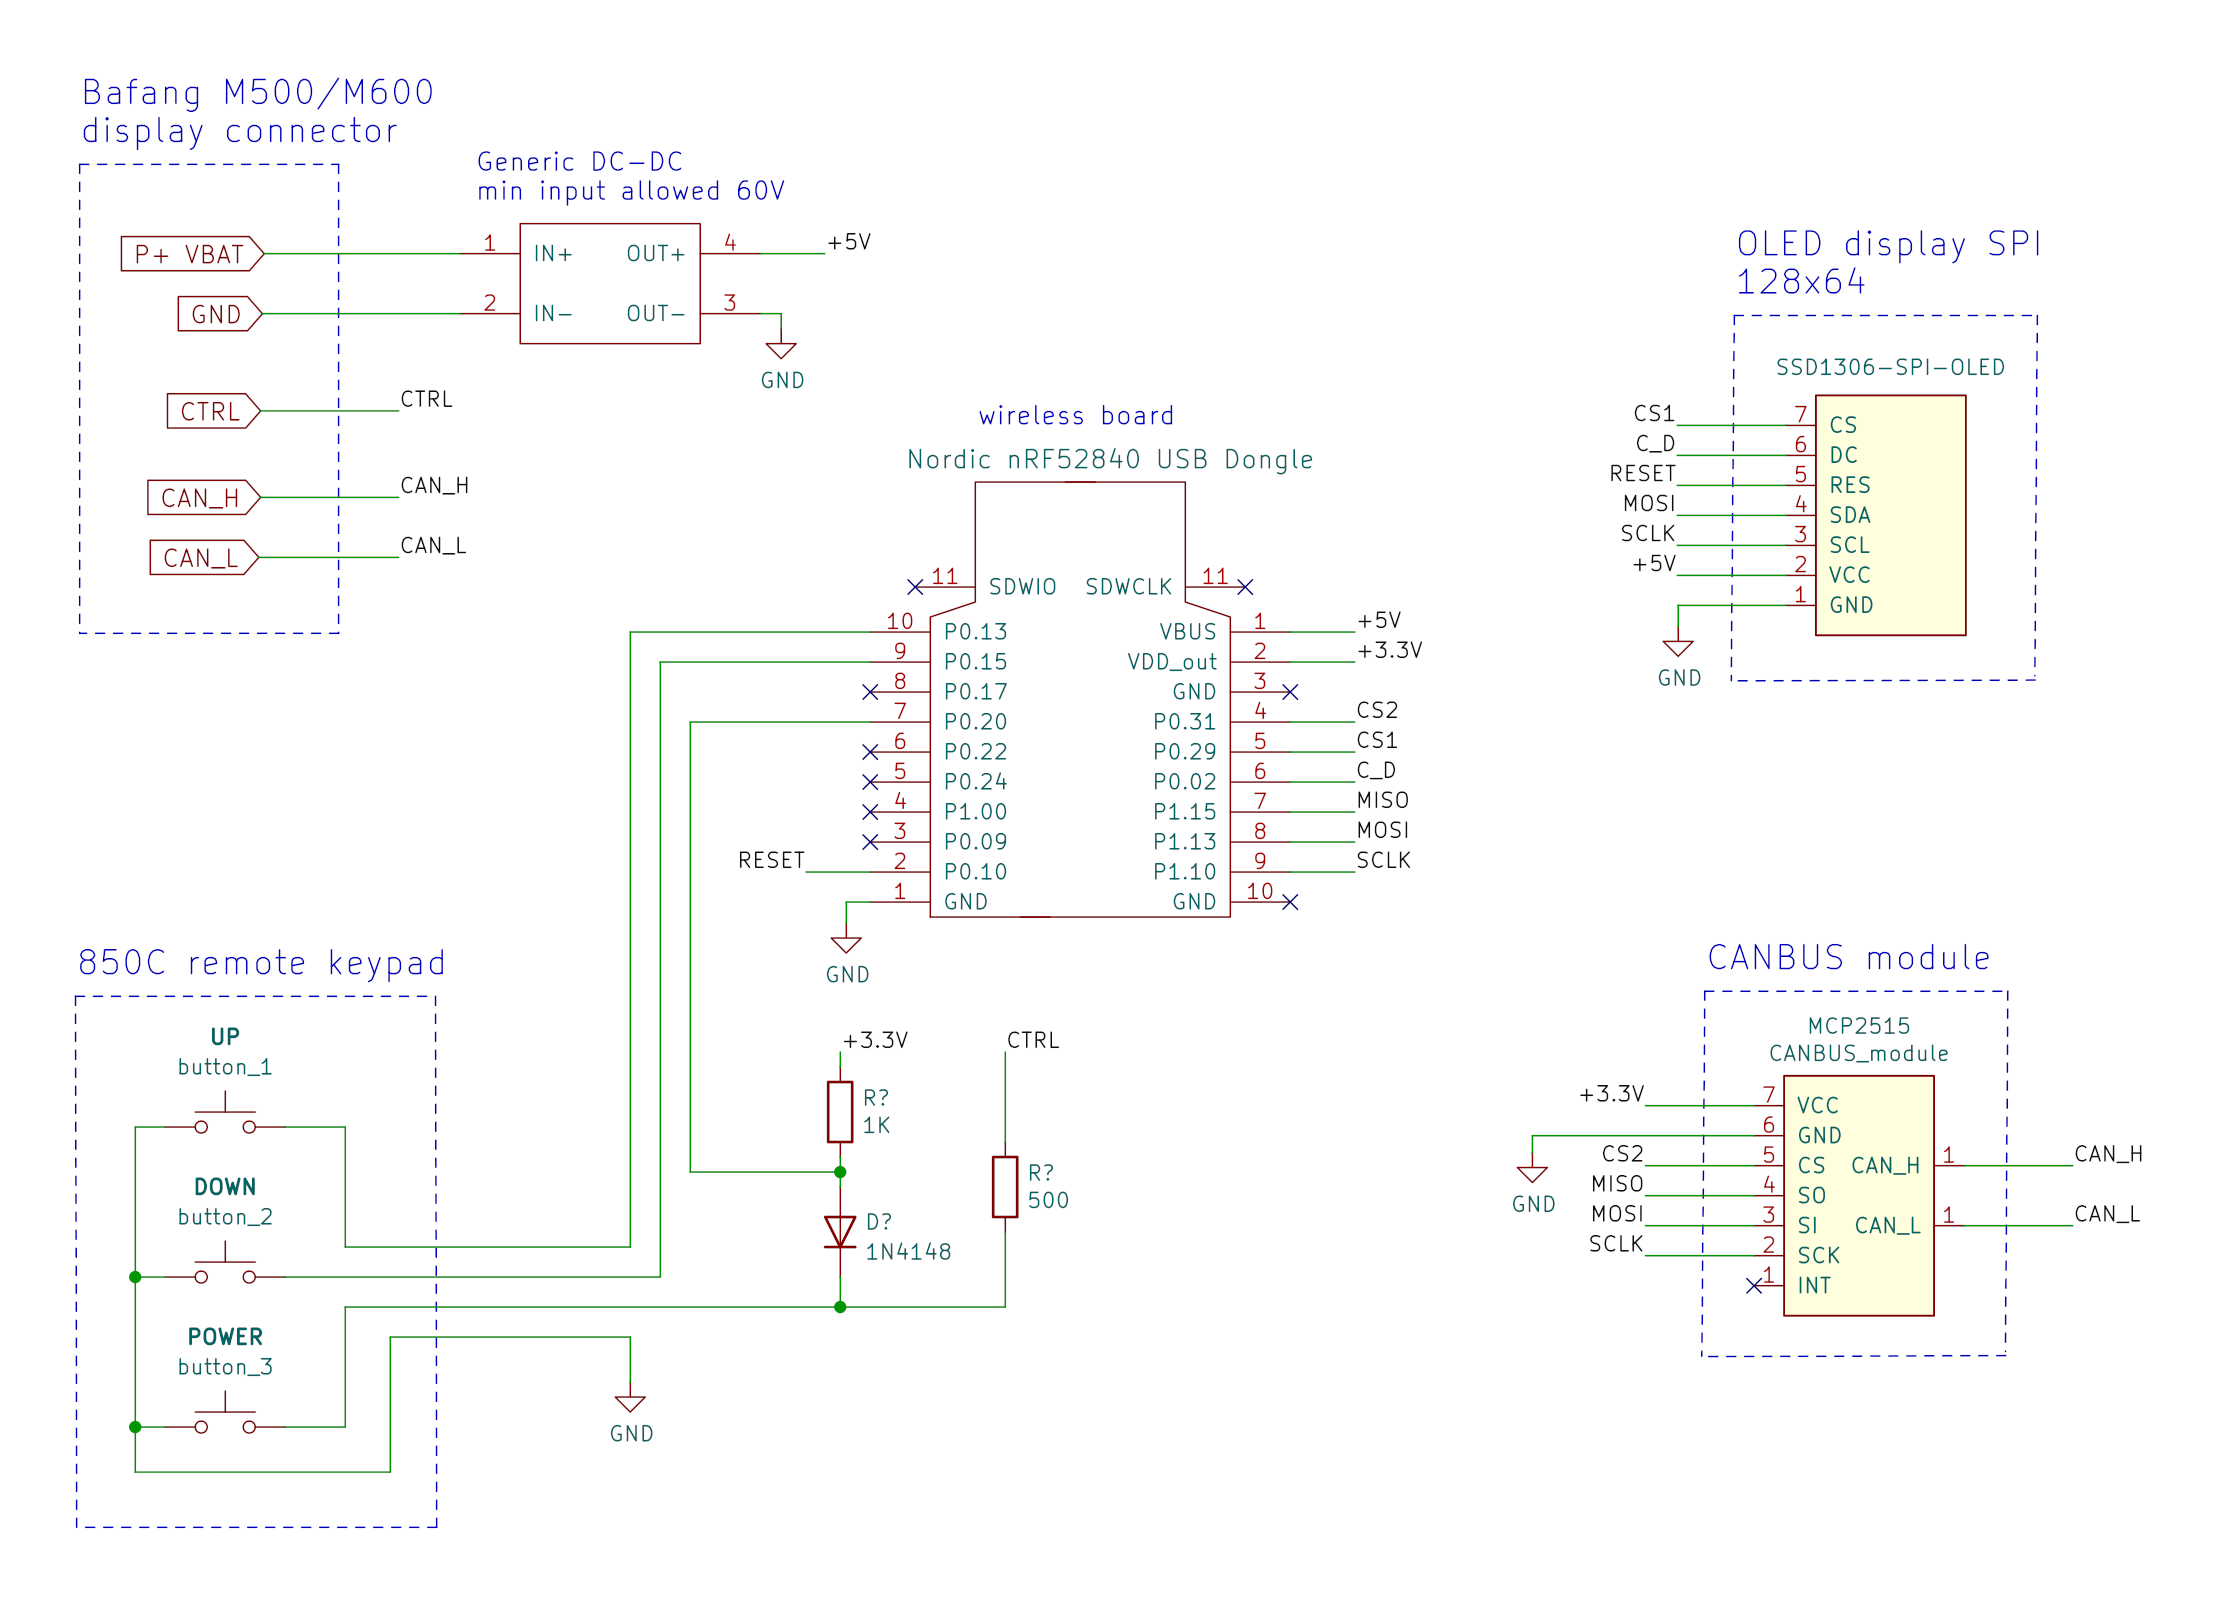
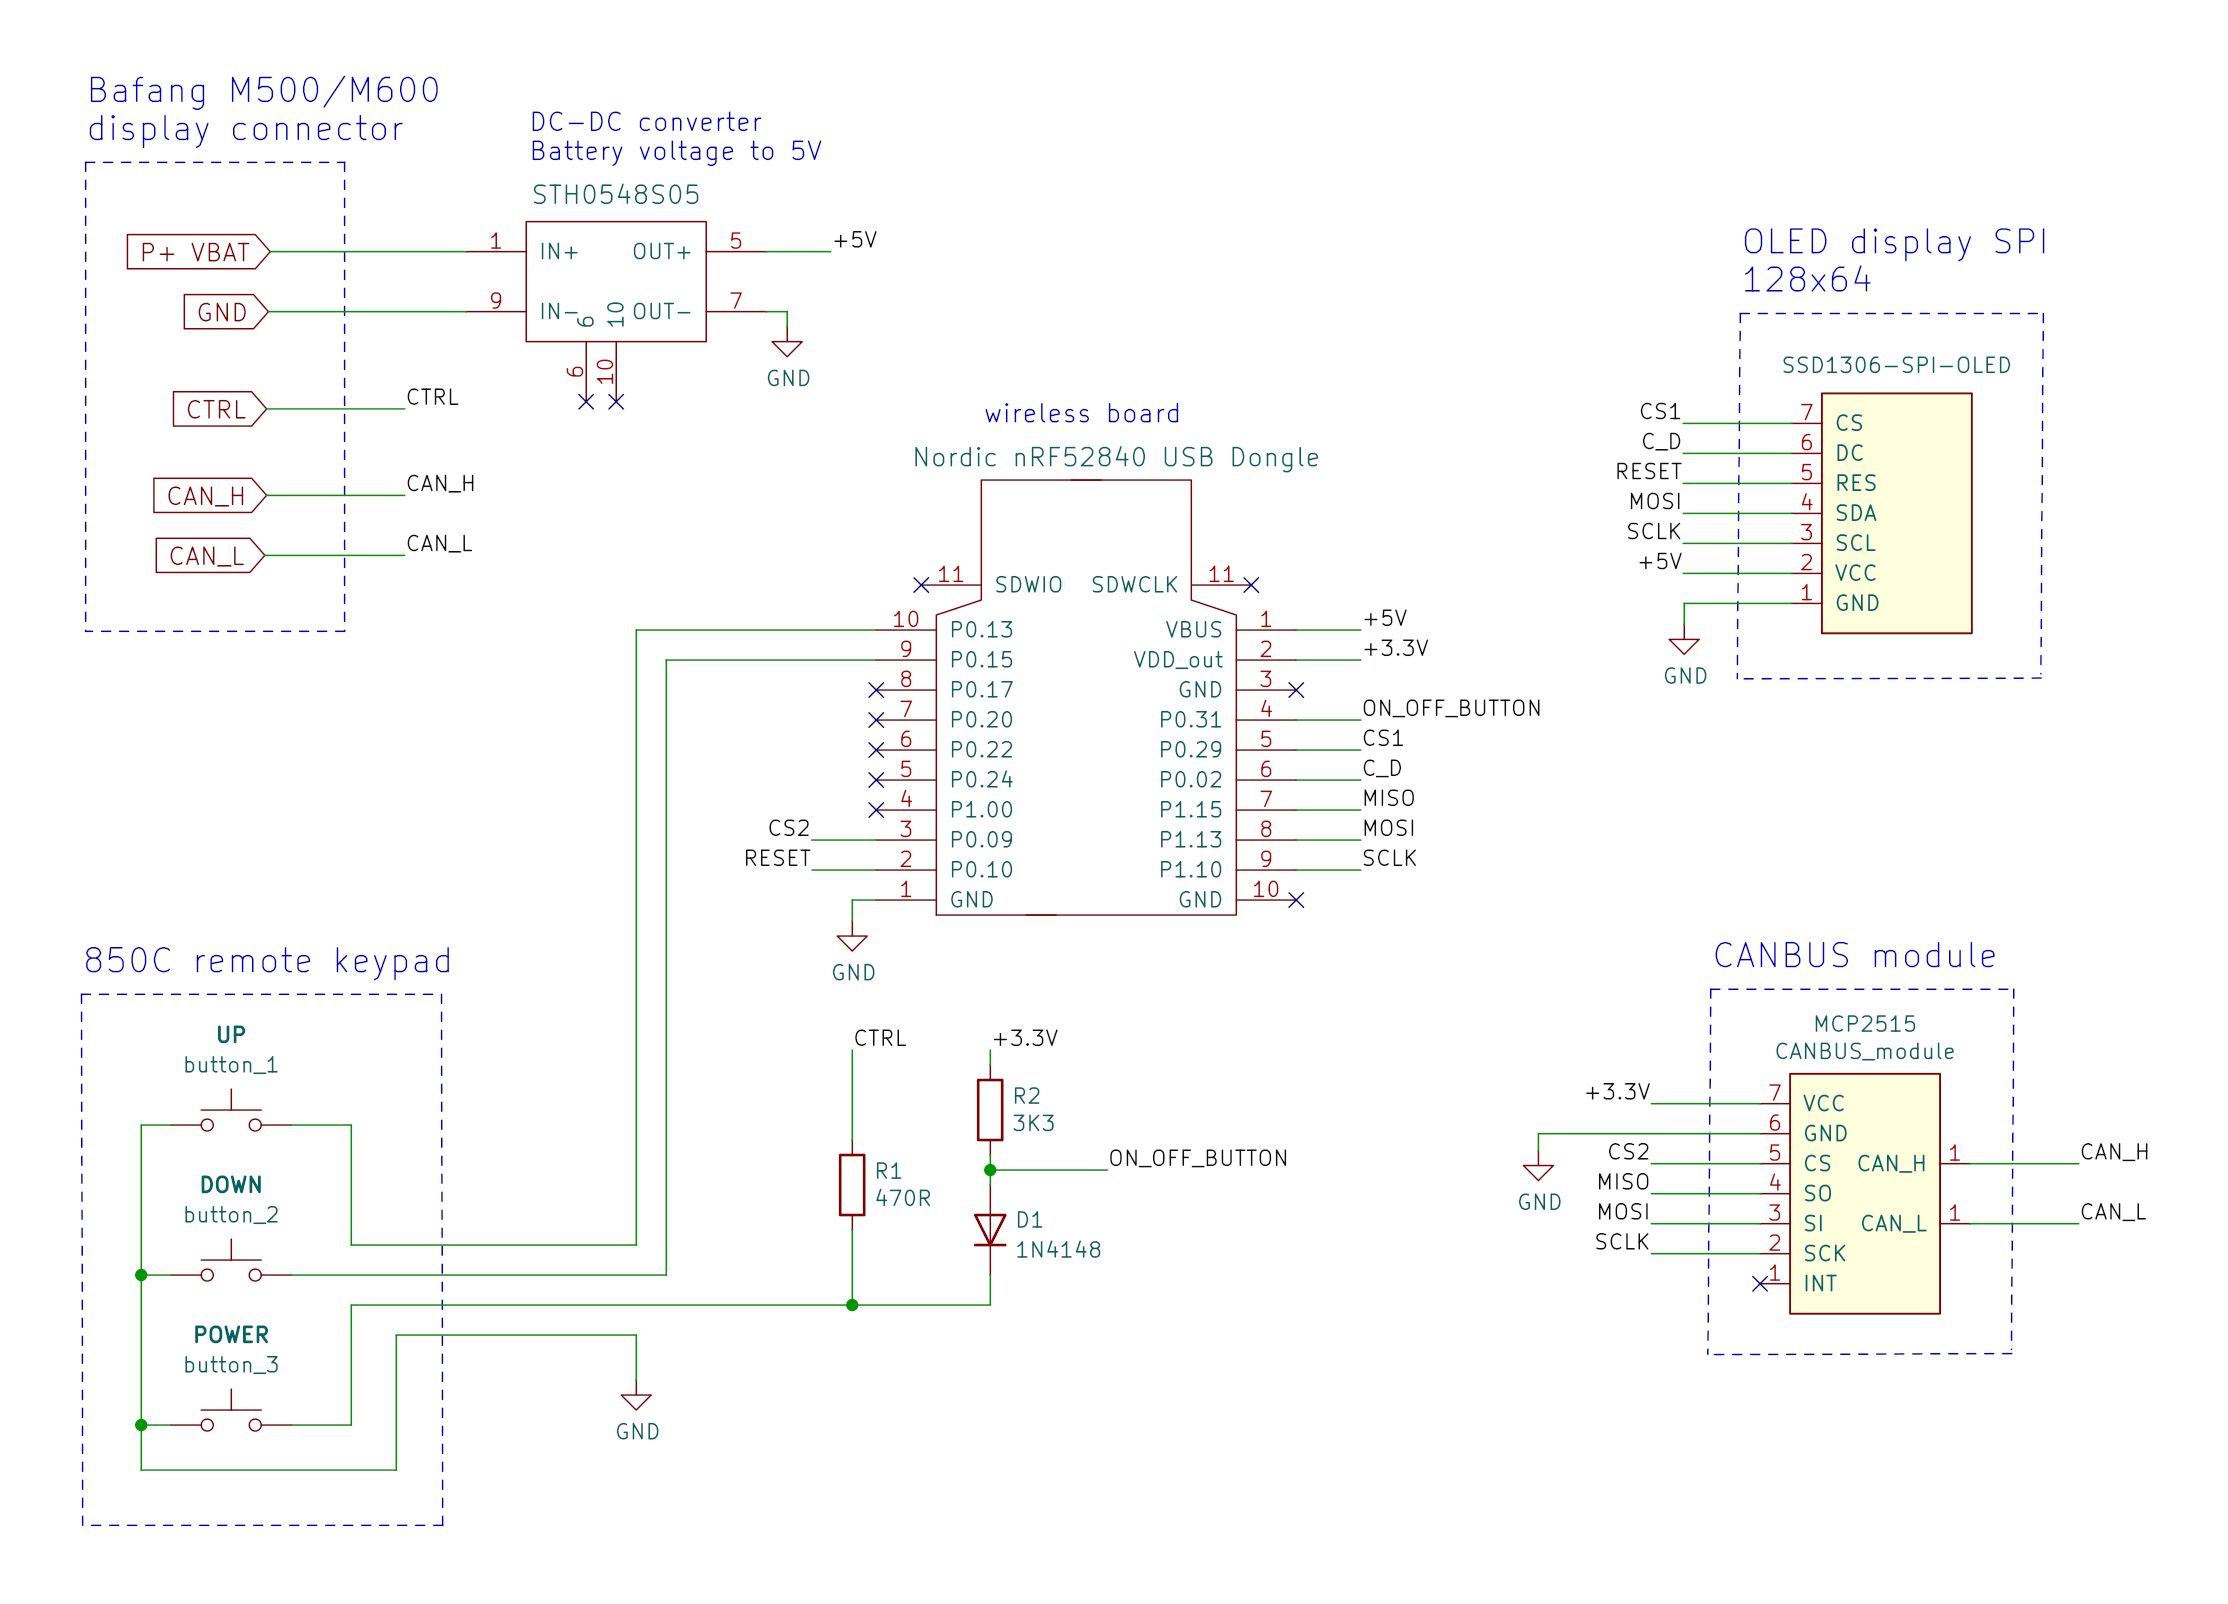
Updated the scheamtic

diff --git a/build_display-bafang_m500_M600.md b/build_display-bafang_m500_M600.md
@@ -1,8 +1,6 @@
 # How to build the display
 
-WIP WORK IN PROGRESS!!
-
-NOTE that this display only works for BAfang M500/M600 motors.
+NOTE that this display only works for Bafang M500/M600 motors.
 
 Some of the following components can bought on online shops like Aliexpress, Ebay or at specialized electronics shops like [www.mouser.com](https://mouser.com/) or [www.farnell.com](https://www.farnell.com/).
 
@@ -14,31 +12,29 @@ You will need the following components:
 * **Step down 80V -> 5V power board [XP Power STH0548S05](https://export.rsdelivers.com/product/xp-power/sth0548s05/xp-power-surface-mount-dc-dc-switching-regulator/1883365)**: costs 11€.<br>
 ![](dcdc.png)<br>
 * **Diode 1N4148**: costs 0.1€, can be bought on EBay or other shops.<br>
-* **Resistor 500 ohms**: costs 0.1€, can be bought on EBay or other shops.<br>
+* **Resistor 470 ohms**: costs 0.1€, can be bought on EBay or other shops.<br>
+* **Resistor 3300 ohms**: costs 0.1€, can be bought on EBay or other shops.<br>
 * **Perf board**: costs 1€.<br>
 ![](perfboard.jpg)<br>
-* **Bafang  display extension cable**: costs ??€<br>
+* **Bafang  display extension cable**: [costs 8€](https://www.aliexpress.com/item/1005003656557018.html)<br>
 
 ## Step by step instructions
 
-TODO
+1 - **Build your board**
 
-3 - **Build your board**
-
-3.1 - Understand the circuit, see the schematic:<br>
+1.1 - Understand the circuit, see the schematic:<br>
 [![](schematic/schematic-Bafang_M500_M600.png)](schematic/schematic-Bafang_M500_M600.png)
 
 ### Schematic explanation
 
 * the DC-DC converts the high battery voltage to output 5 volts, which will then be the input for the NRF52840 board as also to OLED display.
 
-* the NRF52840 board communicates with the OLED display using I2C or SPI connection.
+* the NRF52840 board communicates with the OLED display using SPI connection.
 
-* the NRF52840 board reads directly 3 buttons state from the keypad.
+* the NRF52840 board reads the 3 buttons state from the keypad.
 
 * the NRF52840 board communicates with CAN module.
 
 NRF52840 board pinout:
 ![Pinout](nordic_pinout.png)
 
-TODO
